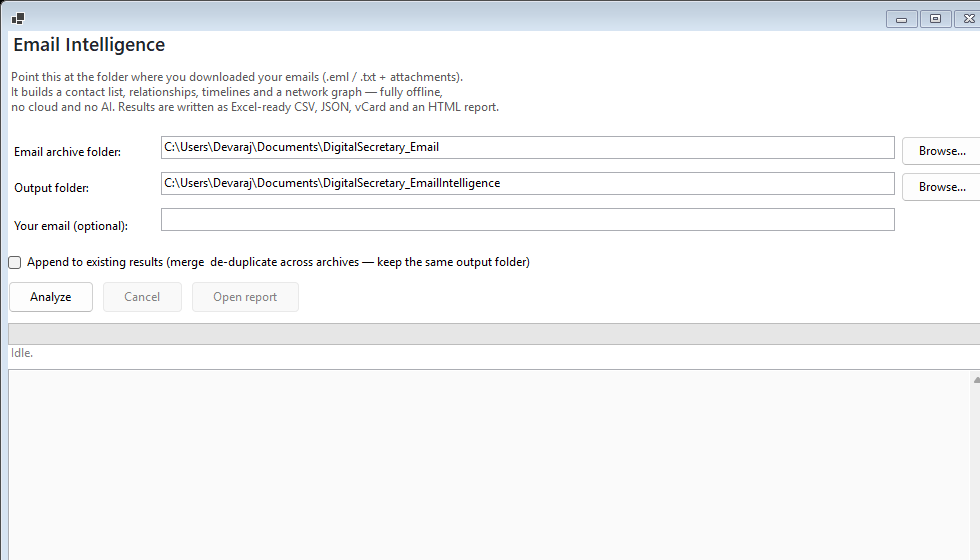
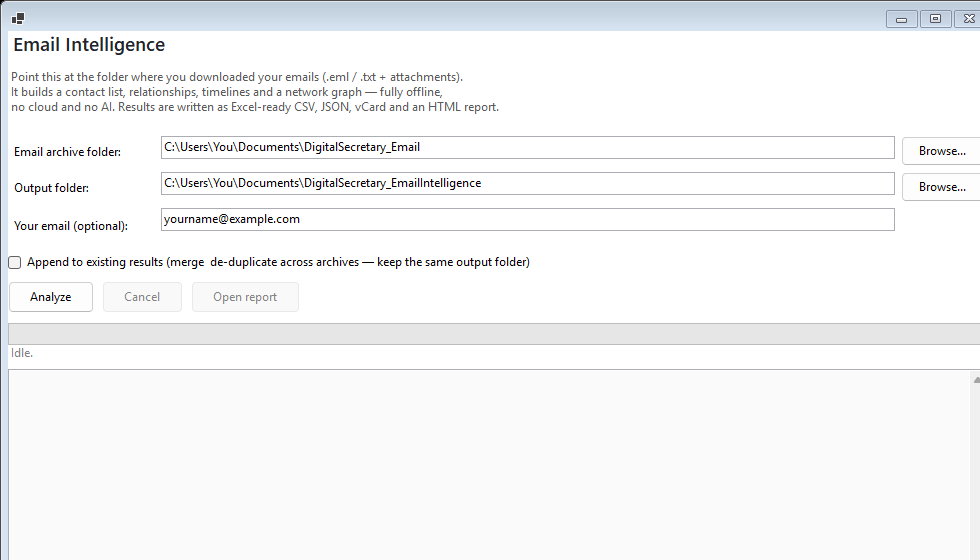
Security: scrub username PII from artifacts + gate the leak class
- The Email Intelligence screenshot showed the real OS username in the
  default folder path; seed DocShots with placeholder paths so the manual
  screenshot uses C:\Users\You\... (manual regenerated).
- Stop tracking Python build caches (__pycache__/ *.pyc): a .pyc embeds
  the absolute source path (= username). Gitignore + untrack them.
- Harden check_secrets.py to flag local user-home paths that leak the OS
  username (C:\Users\<name>\, /home/<name>/), with a placeholder allowlist.
- Document the rule (CLAUDE.md): screenshots/seed data must use
  placeholders (image-baked PII isn't text-scannable); never commit
  path-embedding build caches. Mirrored to the shared app standard.

Changed region(s): [[0.2143, 0.3036, 0.5204, 0.3339], [0.2143, 0.2429, 0.4592, 0.2732], [0.1531, 0.3643, 0.3061, 0.425]]

diff --git a/docs/user-guide/DigitalSecretary-User-Manual.html b/docs/user-guide/DigitalSecretary-User-Manual.html
@@ -271,7 +271,7 @@
     <section class="doc" id="email-intelligence" data-t="email intelligence contacts relationships timeline network graph tone life data documents offline report excel csv vcard graphml append consolidate dossier insights">
       <h2>Email Intelligence</h2>
       <p class="lead">Turn the emails you have already downloaded into a private, searchable picture of your contacts and your life &mdash; <b>entirely on your PC</b>. No cloud, no AI.</p>
[2 lines of base64/hex data omitted]
       <div class="call note"><div class="h">Download your mail first</div>Use <b>Download Emails</b> (Yahoo) and/or <b>Download Gmail</b> so you have a folder of <b>.eml</b> / <b>.txt</b> files with attachments &mdash; that folder is the input here.</div>
       <h3>Run an analysis</h3>
       <ol class="steps">

diff --git a/tools/check_secrets.py b/tools/check_secrets.py
@@ -4,7 +4,11 @@ Scans every tracked text artifact (code, docs, config) for personal data and sec
 never be committed. Wired into build.ps1 (part of the VERDICT) and therefore the pre-commit hook.
 
 Detects: personal email addresses, hardcoded passwords/secrets/tokens/API keys, GitHub/AWS/Google/
-Slack tokens, JWTs, private-key blocks, US SSNs, and Luhn-valid credit-card numbers.
+Slack tokens, JWTs, private-key blocks, US SSNs, Luhn-valid credit-card numbers, and local user-home
+paths that leak the OS username (e.g. C:\\Users\\<name>\\, /home/<name>/, /Users/<name>/).
+
+Note: image-baked PII (a real name/path rendered into a screenshot) is NOT catchable here - it is
+prevented upstream by feeding screenshots/sample data placeholder values (see tools/DocShots).
 
 Allow a known-safe line with a trailing comment:  ... # pragma: allowlist secret
 Run:  python tools/check_secrets.py
@@ -31,6 +35,11 @@ ALLOW_LOCALPARTS = {"yourname", "you", "me", "user", "username", "test", "exampl
 EMAIL_RE = re.compile(r"[A-Za-z0-9._%+\-]+@[A-Za-z0-9.\-]+\.[A-Za-z]{2,}")
 SSN_RE = re.compile(r"\b\d{3}-\d{2}-\d{4}\b")
 CC_RE = re.compile(r"\b(?:\d[ \-]?){13,16}\b")
+
+# Local user-home paths leak the OS username (real-name PII). Allow obvious placeholders.
+HOME_PATH_RE = re.compile(r"(?i)(?:[A-Za-z]:[\\/]+Users[\\/]+|/home/|/Users/)([A-Za-z0-9._%+\-]+)")
+ALLOW_USERS = {"you", "public", "default", "yourname", "user", "username", "runneradmin",
+               "runner", "administrator", "name", "example", "someone"}
 
 TOKEN_PATTERNS = [
     ("GitHub token", re.compile(r"gh[pousr]_[A-Za-z0-9]{36,}")),
@@ -93,6 +102,9 @@ def scan_line(rel, n, line):
         digits = re.sub(r"\D", "", cand)
         if 13 <= len(digits) <= 16 and luhn_ok(digits):
             findings.append((rel, n, "credit-card number", digits[:4] + "********"))
+    for m in HOME_PATH_RE.finditer(line):
+        if m.group(1).lower() not in ALLOW_USERS:
+            findings.append((rel, n, "local user-home path (OS username)", m.group(0)))
 
 
 def main():

diff --git a/tools/DocShots/Program.cs b/tools/DocShots/Program.cs
@@ -178,6 +178,18 @@ internal static class Program
         Directory.CreateDirectory(drive);
         var driveSettings = new { CredentialsPath = @"C:\Users\You\Downloads\credentials.json", DownloadDir = @"C:\Users\You\Documents\DigitalSecretary_Drive" };
         File.WriteAllText(Path.Combine(drive, "drive_settings.json"), JsonSerializer.Serialize(driveSettings, json));
+
+        // Seed placeholder paths so the Email Intelligence screenshot never shows the real OS username.
+        var emailIntel = Path.Combine(dataRoot, "email-intelligence");
+        Directory.CreateDirectory(emailIntel);
+        var eiSettings = new
+        {
+            InputDir = @"C:\Users\You\Documents\DigitalSecretary_Email",
+            OutputDir = @"C:\Users\You\Documents\DigitalSecretary_EmailIntelligence",
+            OwnerAddress = "[email redacted]",
+            Append = false
+        };
+        File.WriteAllText(Path.Combine(emailIntel, "email_intelligence_settings.json"), JsonSerializer.Serialize(eiSettings, json));
     }
 
     private static string LocateRepoRoot()

diff --git a/CLAUDE.md b/CLAUDE.md
@@ -91,9 +91,15 @@ important workflow in this repo is "add a feature" — keep it mechanical and re
   don't match, coverage has a gap, or generated text is unclean. Keep it green (part of the VERDICT).
 - **No secrets or personal info, ever — gated before every commit.** The pre-commit hook and
   `build.ps1` run `tools/check_secrets.py`, which **fails** if any tracked artifact (code, docs, config)
-  contains a personal email, password, token / API key, private key, SSN, or credit-card number. Use a
+  contains a personal email, password, token / API key, private key, SSN, credit-card number, **or a
+  local user-home path that leaks the OS username** (`C:\Users\<name>\`, `/home/<name>/`). Use a
   **generic git identity** (no real name/email in commit metadata). Mark a confirmed false positive with
   a trailing `# pragma: allowlist secret`.
+  - **Image-baked PII is not text-scannable** — a real name/path/email **rendered into a screenshot**
+    won't be caught by the scanner. So **all screenshots and sample/seed data must use placeholders**
+    (`C:\Users\You\...`, `[email redacted]`); feed those to `tools/DocShots`, never real values.
+  - **Never commit build caches** that embed absolute source paths — `__pycache__/`, `*.pyc`, `bin/`,
+    `obj/` are git-ignored (a `.pyc` records `C:\Users\<you>\...` as its source path = username PII).
 - **The repo is git-tracked** — make a commit per logical change so anything can be reviewed/reverted.
 - **Gates run automatically.** A **pre-commit hook** (`.githooks/pre-commit`) runs a fast gate
   (build + static analysis + docs consistency) so broken/drifted changes can't be committed; **CI**